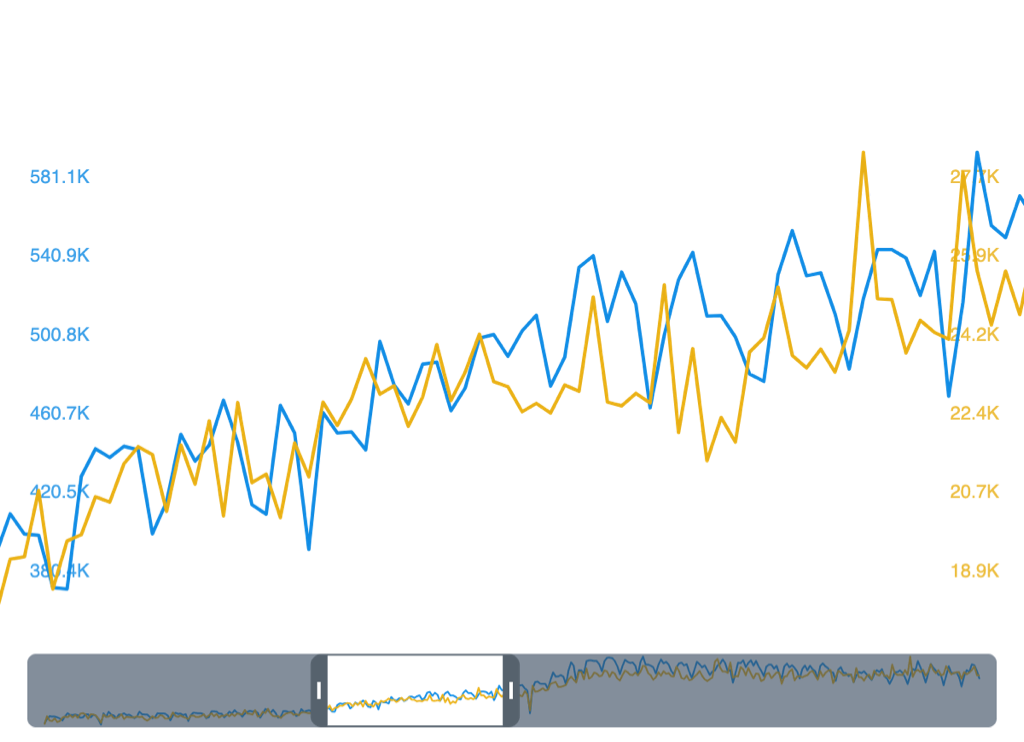
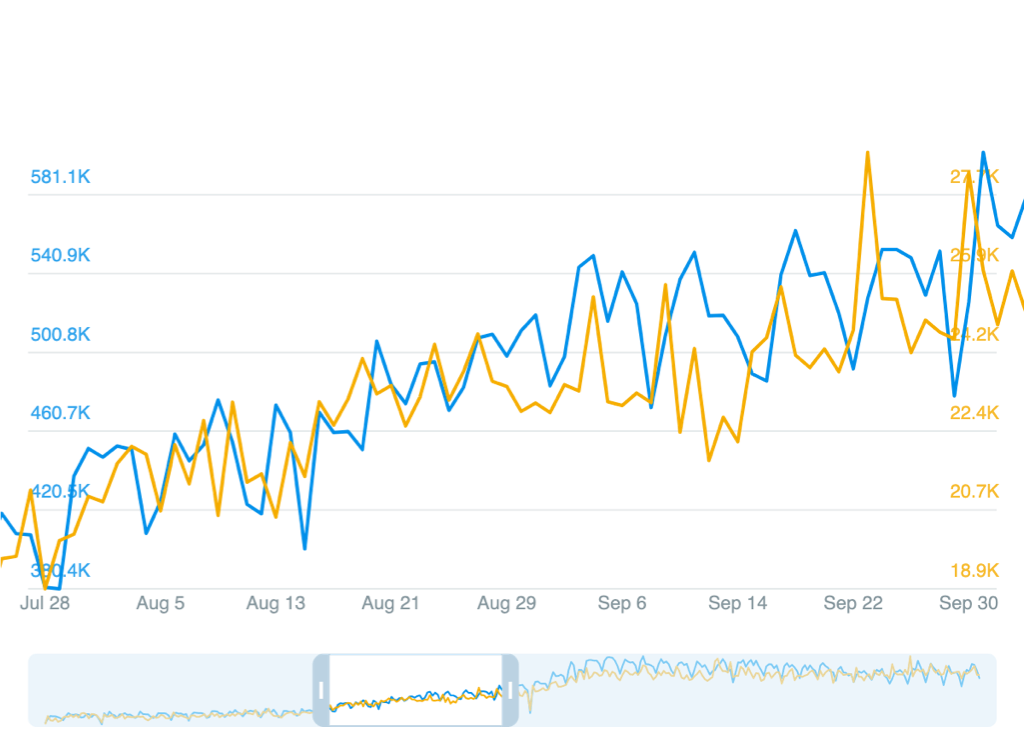
add light charts screenshot

diff --git a/src/components/Tiles/Tile.tsx b/src/components/Tiles/Tile.tsx
@@ -28,6 +28,7 @@ export const Tile: React.FC<TileProps> = ({ project }) => {
   const title = project.frontmatter.title || project.fields.slug
   const size = project.frontmatter.size || 'full';
   const image = project.frontmatter.image;
+  const imageDark = project.frontmatter.image_dark;
   const TileWrapper = tileBySize[size];
 
   // eslint-disable-next-line
@@ -41,7 +42,10 @@ export const Tile: React.FC<TileProps> = ({ project }) => {
   return (
     <TileWrapper>
       <div className="tile-image">
-        <img src={image?.publicURL} alt="project" />
+        <picture>
+          <source srcSet={imageDark?.publicURL} media="(prefers-color-scheme: dark)"/>
+          <img src={image.publicURL} alt="project" />
+        </picture>
       </div>
       <article className="tile-details" itemScope itemType="http://schema.org/Article">
         <header>

diff --git a/src/pages/index.tsx b/src/pages/index.tsx
@@ -54,6 +54,9 @@ export const pageQuery = graphql`
           image {
             publicURL
           }
+          image_dark {
+            publicURL
+          }
           images {
             publicURL
           }

diff --git a/src/types.ts b/src/types.ts
@@ -11,6 +11,9 @@ export type Project = {
     image: {
       publicURL: string;
     };
+    image_dark: {
+      publicURL: string;
+    };
     images: {
       publicURL: string;
     }[];

diff --git a/src/components/Tiles/TileFull.tsx b/src/components/Tiles/TileFull.tsx
@@ -23,7 +23,7 @@ export const TileFullWrapper = styled.li`
     flex-direction: column;
     flex: 1;
     
-    img {
+    img, picture {
       width: 100%;
     }
   }

diff --git a/src/components/Tiles/TileHalf.tsx b/src/components/Tiles/TileHalf.tsx
@@ -25,7 +25,7 @@ export const TileHalfWrapper = styled.li`
     flex: 1;
     padding-bottom: 40px;
 
-    img {
+    img, picture {
       width: 100%;
     }
   }

diff --git a/content/blog/2-telegram-charts/index.md b/content/blog/2-telegram-charts/index.md
@@ -5,6 +5,7 @@ date: "2015-05-28T22:40:32.169Z"
 description: Lightweight, fully functional charts library. Project was created for Telegram Charts contest.
 link: https://gebeto.github.io/telegram-charts
 image: ./charts_2.png
+image_dark: ./charts_2_dark.png
 images:
   - ./charts_1.png
   - ./charts_2.png
